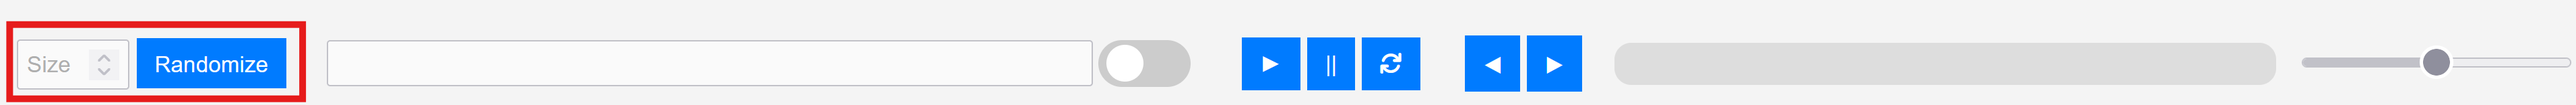
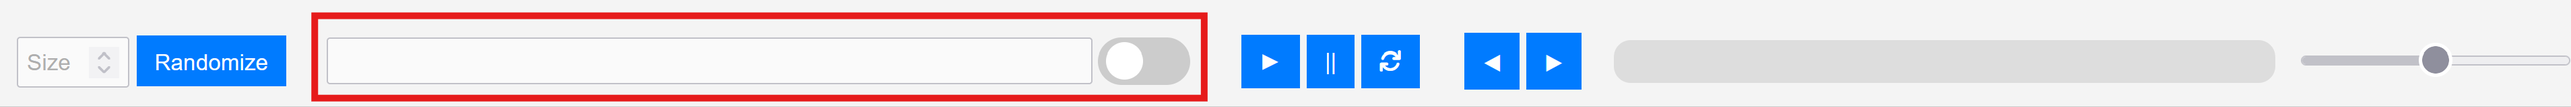
"user guide updates"

Changed region(s): [[0.0, 0.1019, 1.0, 1.0], [0.8729, 0.4331, 1.0, 0.7134]]

diff --git a/HomePage/HomePage.html b/HomePage/HomePage.html
@@ -1,188 +1,252 @@
 <!-- Home Page Description -->
 <div id="description">
-  <h2 style="padding-bottom: 1%;">Table of Contents</h2>  
+  <h2 style="padding-bottom: 2.5%; padding-top: 2.5%;text-align: center;">Table of Contents</h2>  
   <table style="width: 100%; border-collapse: separate;">
-    <tr>
-      <th style="text-align: left; font-size: 1.2em; padding-top: 1%; padding-bottom: 1%;">Section</th>
-    </tr>
-    <tr><td style="padding-top: 1%; padding-bottom:1%; font-weight:bold;">Purpose</td></tr>
-    <tr><td style="padding-top: 1%; padding-bottom:1%; font-weight: bold;">System Requirements</td></tr>
-    <tr><td style="padding-top: 1%; padding-bottom:1%; font-weight: bold;">Installation Instructions</td></tr>
-    <tr><td style="padding-top: 1%; padding-bottom:1%;font-weight: bold;">Top Panel Walkthrough</td></tr>
-    <tr><td style="padding-top: 1%; padding-bottom:1%;padding-left: 7.5%;">List Size Input and Randomize Button</td></tr>
-    <tr><td style="padding-top: 1%; padding-bottom:1%;padding-left: 7.5%;">Custom User Input Box and Toggle</td></tr>
-    <tr><td style="padding-top: 1%; padding-bottom:1%;padding-left: 7.5%;">Start Button</td></tr>
-    <tr><td style="padding-top: 1%; padding-bottom:1%;padding-left: 7.5%;">Pause Button</td></tr>
-    <tr><td style="padding-top: 1%; padding-bottom:1%;padding-left: 7.5%;">Reset Button</td></tr>
-    <tr><td style="padding-top: 1%; padding-bottom:1%;padding-left: 7.5%;">Step Forward Button</td></tr>
-    <tr><td style="padding-top: 1%; padding-bottom:1%;padding-left: 7.5%;">Step Back Button</td></tr>
-    <tr><td style="padding-top: 1%; padding-bottom:1%;padding-left: 7.5%;">Progress Bar</td></tr>
-    <tr><td style="padding-top: 1%; padding-bottom:1%;padding-left: 7.5%;">Speed Slider</td></tr>
-    <tr><td style="padding-top: 1%; padding-bottom:1%;padding-left: 7.5%;">Left Panel Walkthrough</td></tr>
-    <tr><td style="padding-top: 1%; padding-bottom:1%;padding-left: 7.5%;">Search Bar</td></tr>
-    <tr><td style="padding-top: 1%; padding-bottom:1%;padding-left: 7.5%;">Algorithm Drop-Down Menus</td></tr>
-    <tr><td style="padding-top: 1%; padding-bottom:1%;; font-weight: bold;">Middle Panels</td></tr>
-    <tr><td style="padding-top: 1%; padding-bottom:1%;padding-left: 7.5%;">Graph Panel</td></tr>
-    <tr><td style="padding-top: 1%; padding-bottom:1%;padding-left: 7.5%;">Box List Panel</td></tr>
-    <tr><td style="padding-top: 1%; padding-bottom:1%;padding-left: 7.5%;">Step Log Panel</td></tr>
-    <tr><td style="padding-top: 1%; padding-bottom:1%;font-weight: bold;">Right Panel Walkthrough</td></tr>
-    <tr><td style="padding-top: 1%; padding-bottom:1%;padding-left: 7.5%;">Home Page's Right Panel</td></tr>
-    <tr><td style="padding-top: 1%; padding-bottom:1%;padding-left: 7.5%;">Algorithm Pages' Right Panel</td></tr>
-    <tr><td style="padding-top: 1%; padding-bottom:5%; padding-left: 7.5%;">FAQs</td></tr>
-  </table> <br>
+    <tr><td style="padding-bottom:1%; font-weight:bold;">1. Purpose</td></tr>
+    <tr><td style="padding-top: 1%; padding-bottom:1%; font-weight: bold;">2. System Requirements</td></tr>
+    <tr><td style="padding-top: 1%; padding-bottom:1%; font-weight: bold;">3. Installation Instructions</td></tr>
+    <tr><td style="padding-top: 1%; padding-bottom:1%;font-weight: bold;">4. Top Panel Walkthrough</td></tr>
+    <tr><td style="padding-top: 1%; padding-bottom:1%;padding-left: 7.5%;">4.1. List Size Input and Randomize Button</td></tr>
+    <tr><td style="padding-top: 1%; padding-bottom:1%;padding-left: 7.5%;">4.2. Custom User Input Box and Toggle</td></tr>
+    <tr><td style="padding-top: 1%; padding-bottom:1%;padding-left: 7.5%;">4.3. Start Button</td></tr>
+    <tr><td style="padding-top: 1%; padding-bottom:1%;padding-left: 7.5%;">4.4. Pause Button</td></tr>
+    <tr><td style="padding-top: 1%; padding-bottom:1%;padding-left: 7.5%;">4.5. Reset Button</td></tr>
+    <tr><td style="padding-top: 1%; padding-bottom:1%;padding-left: 7.5%;">4.6. Step Forward Button</td></tr>
+    <tr><td style="padding-top: 1%; padding-bottom:1%;padding-left: 7.5%;">4.7. Step Back Button</td></tr>
+    <tr><td style="padding-top: 1%; padding-bottom:1%;padding-left: 7.5%;">4.8. Progress Bar</td></tr>
+    <tr><td style="padding-top: 1%; padding-bottom:1%;padding-left: 7.5%;">4.9. Speed Slider</td></tr>
+    <tr><td style="padding-top: 1%; padding-bottom:1%; font-weight: bold;">5. Left Panel Walkthrough</td></tr>
+    <tr><td style="padding-top: 1%; padding-bottom:1%;padding-left: 7.5%;">5.1. Search Bar</td></tr>
+    <tr><td style="padding-top: 1%; padding-bottom:1%;padding-left: 7.5%;">5.2. Algorithm Drop-Down Menus</td></tr>
+    <tr><td style="padding-top: 1%; padding-bottom:1%;; font-weight: bold;">6. Middle Panels</td></tr>
+    <tr><td style="padding-top: 1%; padding-bottom:1%;padding-left: 7.5%;">6.1. Graph Panel</td></tr>
+    <tr><td style="padding-top: 1%; padding-bottom:1%;padding-left: 7.5%;">6.2. Box List Panel</td></tr>
+    <tr><td style="padding-top: 1%; padding-bottom:1%;padding-left: 7.5%;">6.3. Step Log Panel</td></tr>
+    <tr><td style="padding-top: 1%; padding-bottom:1%;font-weight: bold;">7. Right Panel Walkthrough</td></tr>
+    <tr><td style="padding-top: 1%; padding-bottom:1%;padding-left: 7.5%;">7.1. Home Page's Right Panel</td></tr>
+    <tr><td style="padding-top: 1%; padding-bottom:1%;padding-left: 7.5%;">7.2. Algorithm Pages' Right Panel</td></tr>
+    <tr><td style="padding-top: 1%; padding-bottom:10%; font-weight: bold;">8. FAQs</td></tr>
+  </table>
   
 
-      <h2>Purpose</h2> <br>
-      <p style="padding-bottom: 2.5%">This project was developed to provide a way for users to 
+      <h2 style="padding-bottom:2.5%">1. Purpose</h2> 
+      <p style="padding-bottom: 10%">This project was developed to provide a way for users to 
         learn algorithm for both reading and visualizations. This algorithm
         visualizer differs from other variations by allowing the user to 
         enter their own input. By entering their own input, users will be able
         to get a better understanding of the limations and possibilites of the algorithms.
-      </p> <br> <br>
+      </p>
 
-      <h2>System Requirements</h2> <br>
-      <ol style="padding-left: 4%;">
+      <h2 style="padding-bottom:2.5%">2. System Requirements</h2> 
+      <ol style="padding-left: 3.5%; padding-bottom: 10%">
         <li>A computer or laptop</li> <br>
         <li>A github account</li> <br>
         <li>IDE</li> <br>
-        <li>Live Server</li> <br> <br>
+        <li>Live Server</li> 
       </ol> 
 
-      <h2>Installation Instructions</h2> <br>
-      <p>Follow the steup guide in the Setup tab</p> <br> <br>
+      <h2 style="padding-bottom:2.5%">3. Installation Instructions</h2> 
+      <p style="padding-bottom: 10%">Follow the steup guide in the Setup tab</p> 
 
-      <h2>Top Panel Walkthrough</h2> <br> <br>
+      <h2>4. Top Panel Walkthrough</h2> 
 
-      <p style="padding-left: 10%; padding-top: 2.5%; color: darkslategray;">Top Bar Location on Home Page</p>
-      <img src="../Pictures/User Guide Pictures/Selected Top Bar.png" alt="Top Bar in Home Page" style="padding-left: 10%;padding-bottom: 2.5%;width:95%;height:100%;"> <br> <br>
+      <p style="padding-left: 10%; padding-top: 5%; color: darkslategray;">Top Bar</p>
+      <img src="../Pictures/User Guide Pictures/Selected Top Bar.png" alt="Top Bar" style="padding-left: 10%;padding-bottom: 5%;width:95%;height:100%;"> 
       
-      <h3>List Size Input and Randomize Button</h3> <br>
+      <h3>4.1 List Size Input and Randomize Button</h3> 
 
-      <p style="padding-left: 10%; padding-top: 2.5%; color: darkslategray;">List Size Input and Randomzie Button in Top Bar</p>
-      <img src="../Pictures/User Guide Pictures/Selected Randomize Button and Input.png" alt="Randomize Button and List Size Input" style="padding-left: 10%;padding-bottom: 2.5%;width:95%;height:100%;"> <br> <br>
+      <p style="padding-left: 10%; padding-top: 5%; color: darkslategray;">List Size Input and Randomzie Button</p>
+      <img src="../Pictures/User Guide Pictures/Selected Randomize Button and Input.png" alt="Randomize Button and List Size Input" style="padding-left: 10%;padding-bottom: 5%;width:95%;height:100%;"> 
 
-      <p>Type in or use the up and down arrows on the right side of the <u>List Size Input</u>
+      <p style="padding-bottom: 5%">Type in or use the up and down arrows on the right side of the <u>List Size Input</u>
         to set size of the new randomized input. 
-      </p> <br>
+      </p> 
 
-      <p style="padding-left: 10%; padding-top: 2.5%; color: darkslategray;">List Size Input's Up and Down Arrows</p>
-      <img src="../Pictures/User Guide Pictures/Arrows in List Size Input.png" alt="List Size Input's Up and Down Arrows" style="padding-left: 10%;padding-bottom: 2.5%;width:95%;height:100%;"> <br> <br>
+      <p style="padding-left: 10%; color: darkslategray;">List Size Input's Up and Down Arrows</p>
+      <img src="../Pictures/User Guide Pictures/Arrows in List Size Input.png" alt="List Size Input's Up and Down Arrows" style="padding-left: 10%;padding-bottom: 5%; width:95%;height:100%;"> 
 
-      <p>
+      <p style="padding-bottom: 5%;">
         Once the input is entered, the <u>Randomized Button</u> 
         will become enabled. Click the <u>Randomize Button</u> to create a new input list of given size. 
         A red warning message will appear if the given input value does not meet the criteria. 
         This criteria will differ between algorithms.
-      </p> <br>
+      </p> 
 
-      <h3>Custom User Input Box and Toggle</h3> <br>
-      <p>Type in a list of numerical values. Click on the toggle to set the current input list
+      <h3 style="padding-bottom: 5%;">4.2 Custom User Input Box and Toggle</h3> 
+
+      <p style="padding-left: 10%; color: darkslategray;">Custom User Input Box and Toggle</p>
+      <img src="../Pictures/User Guide Pictures/Custom User Input Box and Toggle.png" alt="Custom User Input Box and Toggle" style="padding-left: 10%;padding-bottom: 5%; width:95%;height:100%;"> 
+
+      <p style="padding-bottom: 5%;">Type in a list of numerical values. Click on the toggle to set the current input list
         equal to the entered input list in the <u>Custom User Input Box</u>. A red warning message will appear if 
         the entered list does not match given criteria. Each algorithm has their own
         criteria. Setting the <u>Custom User Input Toggle</u> back to the left will set the input list
         back to the default input list. 
-      </p> <br>
+      </p> 
 
-      <h3>Start Button</h3> <br>
-      <p>
+      <h3 style="padding-bottom: 5%;">4.3 Start Button</h3> 
+
+      <p style="padding-left: 10%; color: darkslategray;">Start Button</p>
+      <img src="../Pictures/User Guide Pictures/Start Button.png" alt="Start Button" style="padding-left: 10%;padding-bottom: 5%; width:95%;height:100%;"> 
+
+      <p style="padding-bottom: 5%;">
         Starts the execution of the algorithm. Goes through the algorithm
         one frame at a time. Stops execution after the final frame. 
-      </p> <br>
+      </p> 
 
-      <h3>Pause Button</h3> <br>
-      <p>
+      <h3 style="padding-bottom: 5%;">4.4 Pause Button</h3> 
+
+      <p style="padding-left: 10%; color: darkslategray;">Pause Button</p>
+      <img src="../Pictures/User Guide Pictures/Pause Button.png" alt="Pause Button" style="padding-left: 10%;padding-bottom: 5%; width:95%;height:100%;"> 
+
+      <p style="padding-bottom: 5%;">
         Pauses or stop the execution of the algorithm at the current frame. Only works,
         if the algorithm is in execution. 
-      </p> <br>
+      </p> 
 
-      <h3>Reset Button</h3> <br>
-      <p>
+      <h3 style="padding-bottom: 5%;">4.5 Reset Button</h3>
+
+      <p style="padding-left: 10%; color: darkslategray;">Reset Button</p>
+      <img src="../Pictures/User Guide Pictures/Reset Button.png" alt="Reset Button" style="padding-left: 10%;padding-bottom: 5%; width:95%;height:100%;"> 
+
+      <p style="padding-bottom: 5%;">
         Resets the execution of the algorithm back to the first frame. If button is clicked while algorithm 
         is in execution, then the algorithm will be paused at the current frame and reset back to the first frame.
         Works when algorithm is executing, paused, or completed. The button doesn't start the execution process.  
-      </p> <br>
+      </p> 
 
-      <h3>Step Forward Button</h3> <br>
-      <p>Moves the algorithm's execution one frame forward. Works while the algorithm is in excution or
+      <h3 style="padding-bottom: 5%;">4.6 Step Forward Button</h3> 
+
+      <p style="padding-left: 10%; color: darkslategray;">Step Forward Button</p>
+      <img src="../Pictures/User Guide Pictures/Step Through Button.png" alt="Step Forward Button" style="padding-left: 10%;padding-bottom: 5%; width:95%;height:100%;"> 
+
+      <p style="padding-bottom: 5%;">Moves the algorithm's execution one frame forward. Works while the algorithm is in excution or
         paused but not when its completed.
-      </p> <br>
+      </p> 
 
-      <h3>Step Backward Button</h3> <br>
-      <p>Moves the algorithm's execution one fram backward. Works while the algorithm is in execution, paused,
+      <h3 style="padding-bottom: 5%;">4.7 Step Backward Button</h3> 
+
+      <p style="padding-left: 10%; color: darkslategray;">Step Backward Button</p>
+      <img src="../Pictures/User Guide Pictures/Step Backward Button.png" alt="Step Backward Button" style="padding-left: 10%;padding-bottom: 5%; width:95%;height:100%;"> 
+
+      <p style="padding-bottom: 5%;">Moves the algorithm's execution one fram backward. Works while the algorithm is in execution, paused,
         or completed but not when its on the first frame. 
-      </p> <br>
+      </p> 
 
-      <h3>Progress Bar</h3> <br>
-      <p>Displays how far along the algorithm is in its execution process by having the bar
+      <h3 style="padding-bottom: 5%;">4.8 Progress Bar</h3> 
+
+      <p style="padding-left: 10%; color: darkslategray;">Progress Bar</p>
+      <img src="../Pictures/User Guide Pictures/Progress Bar.png" alt="Progress Bar" style="padding-left: 10%;padding-bottom: 5%; width:95%;height:100%;"> 
+
+      <p style="padding-bottom: 5%;">Displays how far along the algorithm is in its execution process by having the bar
         get filled up with a blue bar. Can click on different parts of the progress bar to jump
         to that frame in the execution. The algorithm will continue executing after this jump if it
         was already being executed. The bar will be completely blue once finished and completely white
         at the start. 
-      </p> <br>
+      </p> 
 
-      <h3>Speed Slider</h3> <br>
-      <p>Changes the speed of the algorithm's execution. Moving it to the left will slow down the execution
+      <h3 style="padding-bottom: 5%;">4.9 Speed Slider</h3> 
+
+      <p style="padding-left: 10%; color: darkslategray;">Speed Slider</p>
+      <img src="../Pictures/User Guide Pictures/Speed Slider.png" alt="Speed Slider" style="padding-left: 10%;padding-bottom: 5%; width:95%;height:100%;"> 
+
+      <p style="padding-bottom: 10%;">Changes the speed of the algorithm's execution. Moving it to the left will slow down the execution
         speed and moving it to the right will increase the execution speed. The speed can be changed when algorithm
         is in execution or paused. 
-      </p> <br> <br>
+      </p> 
 
-      <h2>Left Panel Walkthrough</h2> <br> <br>
+      <h2 style="padding-bottom: 5%;">5. Left Panel Walkthrough</h2> 
 
-      <h3>Search Bar</h3> <br>
-      <p>Click on the search bar at the top right of the left panel
-        Type in the name of the algorithm you would like to find and a drop down
+      <p style="padding-left: 10%; color: darkslategray;">Left Panel</p>
+      <img src="../Pictures/User Guide Pictures/Left Panel in Home Page.png" alt="Left Panel" style="padding-left: 10%;padding-bottom: 5%; width:95%;height:100%;"> 
+
+      <h3 style="padding-bottom: 5%;">5.1 Search Bar</h3> 
+
+      <p style="padding-left: 10%; color: darkslategray;">Search Bar</p>
+      <img src="../Pictures/User Guide Pictures/Search Bar Location on Left Panel.png" alt="Search Bar" style="padding-left: 10%; padding-bottom: 5%;width:55%;height:55%;"> 
+
+      <p style="padding-bottom: 5%;">Click on the search bar at the top right of the left panel
+        and type in the name of the algorithm you would like to find and a drop down
         menu will appear of algorithms with a matching name. Once the desired algorithm appears
         in the drop-down menu, click on said algorithm and be taken to said algorithm's page.
         The search bar can be used from any page on the application. 
-      </p> <br>
+      </p> 
 
-      <h3>Algorithm Drop-Down Menus</h3> <br>
-      <p>Click on one of the four sections (Brute Force, Divide and Conquer, Dynamic Programming, Greedy),
+      <h3 style="padding-bottom: 5%;">5.2 Algorithm Drop-Down Menus</h3>
+
+      <p style="padding-left: 10%; color: darkslategray;">Algorithm Drop-Down Menus</p>
+      <img src="../Pictures/User Guide Pictures/Algorithm Drop Down Menus' Location on Left Panel.png" alt="Algorithm Drop-Down Menus' Location on Left Panel" style="padding-left: 10%; padding-bottom: 5%;width:55%;height:55%;"> 
+
+      <h3 style="padding-bottom: 2.5%;">Made up of Four Sections</h3> 
+
+      <ol style="padding-left: 7.5%; padding-bottom:5%;">
+        <li><strong>Brute Force:</strong> Test all possible solutions to a problem until the correct one is found.</li> <br>
+        <li><strong>Divide and Conquer:</strong> Recursively breaks problems down into smaller subproblems, solving those subproblems, and then combing the solutions to the subproblems
+        to solve the original problem.</li> <br>
+        <li style="padding-bottom:2.5%;"><strong>Dynamic Programming:</strong> Finds the shortest solution to a problem by using top-down or bottom-up approaches. Stores and resuses solutions to overlapping subproblems.</li> 
+        <p style="padding-left: 15%; padding-bottom: 2.5%;"><strong>Top-Down Approach:</strong> Uses recurision to break the problem down into smaller subproblems and solving those subproblems to solve the original problem.</p>
+        <p style="padding-left: 15%;"><strong>Bottom-Up Approach:</strong> Starts with the easiest subproblem and builds solutions to the subproblems iteratively combining their solutions to solve the original problem. </p> <br>
+        <li><strong>Greedy:</strong> Solves a problem by picking the best option at each step.</li>
+      </ol> 
+
+      <p style="padding-bottom: 5%;">Click on one of the four sections
         and a drop-down menu will appear of the all the algorithms in that section. Each algorithm belongs
-        to only one of the four sections. Clicking on an algorithm in the drop-down menu will go to the 
-        selected algorithm's page. To get rid of a section's drop-down menu, just re-click on the section.
-      </p> <br> <br>
+        to only one of the four sections. 
+      </p>
 
-      <h2>Middle Panels Walkthrough</h2> <br> <br>
+      <p style="padding-left: 10%; color: darkslategray;">Brute Force Drop-Down Menu</p>
+      <img src="../Pictures/User Guide Pictures/Brute Force Drop Down Menu.png" alt="Brute Force Drop-Down Menu" style="padding-left: 10%; padding-bottom: 5%;width:55%;height:55%;"> 
+
+      <p style="padding-bottom: 10%;">  
+        Clicking on an algorithm in the drop-down menu will go to the 
+        selected algorithm's page. Clicing on a section when its drop-down menu is open will close the drop-down menu.
+      </p>
+
+      <h2 style="padding-bottom: 5%;">6. Middle Panels Walkthrough</h2> 
       
-      <h3>Graph Panel</h3> <br>
-      <p>Contain a display of the given input in the chosen visuals. These visual will differ between algorithms
+      <h3 style="padding-bottom: 2.5%;">6.1 Graph Panel</h3> 
+      <p style="padding-bottom: 5%;">Contain a display of the given input in the chosen visuals. These visual will differ between algorithms
         because some have a graph display of circle (nodes) with lines (edges) between them while others have bar graph
         of the values in the input. During the execution of the algorithm, values in the graph display will become highlighted
         with certain colors to establish the current step in the algorithm. For the bar graphs, value's will be swapped
         and bar graph will change to eventually match the final output. 
-      </p> <br>
+      </p> 
 
-      <h3>Box List Panel</h3> <br>
-      <p>Contains a panel of the input list. During the execution of the algorithm, some of the boxes will be highlighted with certain
+      <h3 style="padding-bottom: 2.5%;">6.2 Box List Panel</h3> 
+      <p style="padding-bottom: 5%;">Contains a panel of the input list. During the execution of the algorithm, some of the boxes will be highlighted with certain
         colors to show the current step in the algorithm. If its a sorting algorithm, the displayed list will be sorted
         during the execution of the algorithm to eventually get the sorted list. There are some algorithms where there will 
         be no <u>Box List Panel</u>.
-      </p> <br>
+      </p> 
 
-      <h3>Step Log Panel</h3> <br>
-      <p>Displays in text what is happening during the current frame of the algorithm's execution. Also 
+      <h3 style="padding-bottom: 2.5%;">6.3 Step Log Panel</h3> 
+      <p style="padding-bottom: 10%;">Displays in text what is happening during the current frame of the algorithm's execution. Also 
         displays the given input at the beginning and the output at the end of the algoirthm's execution. 
-      </p> <br> <br>
+      </p> 
 
-      <h2>Right Panel Walkthrough</h2> <br> <br>
+      <h2 style="padding-bottom: 5%;">7. Right Panel Walkthrough</h2> 
 
-      <h3>Home Page's Right Panel</h3> <br>
+      <h3 style="padding-bottom: 5%;">7.1 Home Page's Right Panel</h3>
 
-      <p style="font-weight: bold;">Home Page's Three Tabs:</p> <br>
-      <ol style="padding-left: 7.5%;">
+      <p style="font-weight: bold; padding-bottom: 2.5%; padding-left: 5%;">Home Page's Three Tabs:</p> 
+
+      <ol style="padding-left: 15%; padding-bottom: 5%">
         <li><strong>User Guide:</strong> Contains an overview of the applications by describing each part of it</li> <br>
         <li><strong>Setup:</strong> Contains instructions on how to setup the applicatoin</li> <br>
-        <li><strong>Information:</strong> Contains information on the application's contributers</li> <br>
-      </ol> <br>
+        <li><strong>Information:</strong> Contains information on the application's contributers</li> 
+      </ol> 
 
-      <h3>Algorithm Pages' Right Panel</h3> <br>
-      <p style="font-weight: bold;">Algorithm Pages' Three Tabs:</p> <br>
-      <ol style="padding-left: 7.5%;">
+      <h3 style="padding-bottom: 5%;">7.2 Algorithm Pages' Right Panel</h3> 
+      <p style="font-weight: bold; padding-bottom: 2.5%; padding-left: 5%;">Algorithm Pages' Three Tabs:</p> 
+      <ol style="padding-left: 15%; padding-bottom: 10%;">
         <li><strong>Description:</strong> Contains information on the algorithm such as use cases, memory usage, runtime, steps, and functionality</li> <br>
         <li><strong>Pseudocode:</strong> Contains the algorithm's pseudocode</li> <br>
-        <li><strong>References:</strong> Contains information a list of resources used to create the algorithm's descritpion and code</li> <br>
+        <li><strong>References:</strong> Contains information a list of resources used to create the algorithm's descritpion and code</li> 
       </ol> 
+
+      <h2 style="padding-bottom: 5%;">FAQs</h2>
+
+      <h3>What is The Text Inside the Custom User Input?</h3>
   </div>
   
 <div id="pseudocode">
@@ -205,6 +269,6 @@
 </div>
 
 <div id="references">
-  <h3>Information</h3>
+  <p><strong>Contributers:</strong> Andrew Thynne, Jonny Cardosi, Alex Comeau, and Aditi Belle</p>
 </div>
 

diff --git a/MainNavigator/MainNavigator.css b/MainNavigator/MainNavigator.css
@@ -310,6 +310,7 @@ input:checked + .slider:before {
     padding: 0.375em 0.75em;
     border: 0.0625em solid #ccc;
     border-top: none;
+    overflow: scroll;
 } 
 #referencesList{
     padding-left: 3%;
